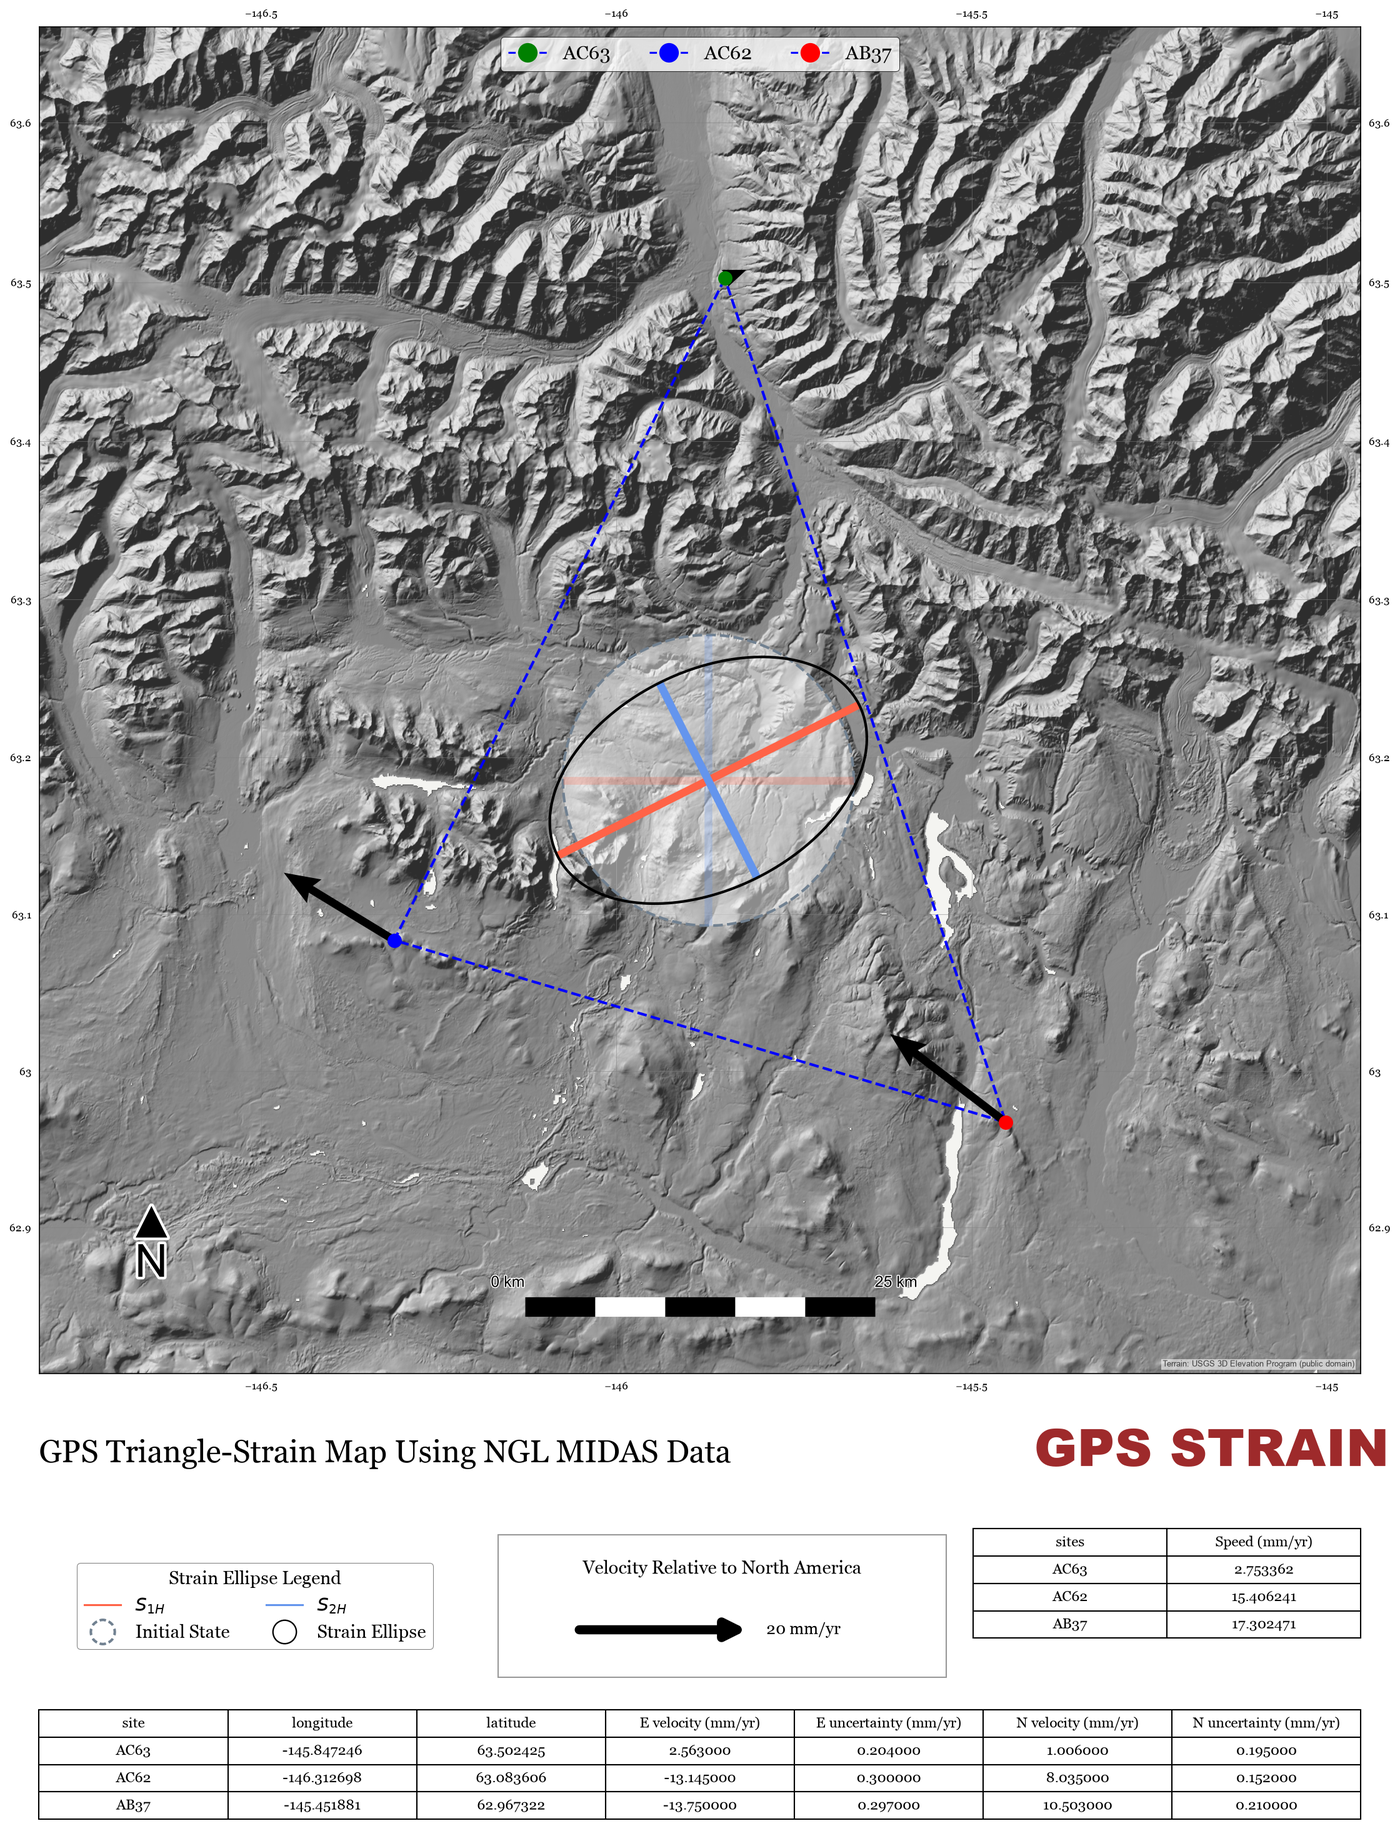
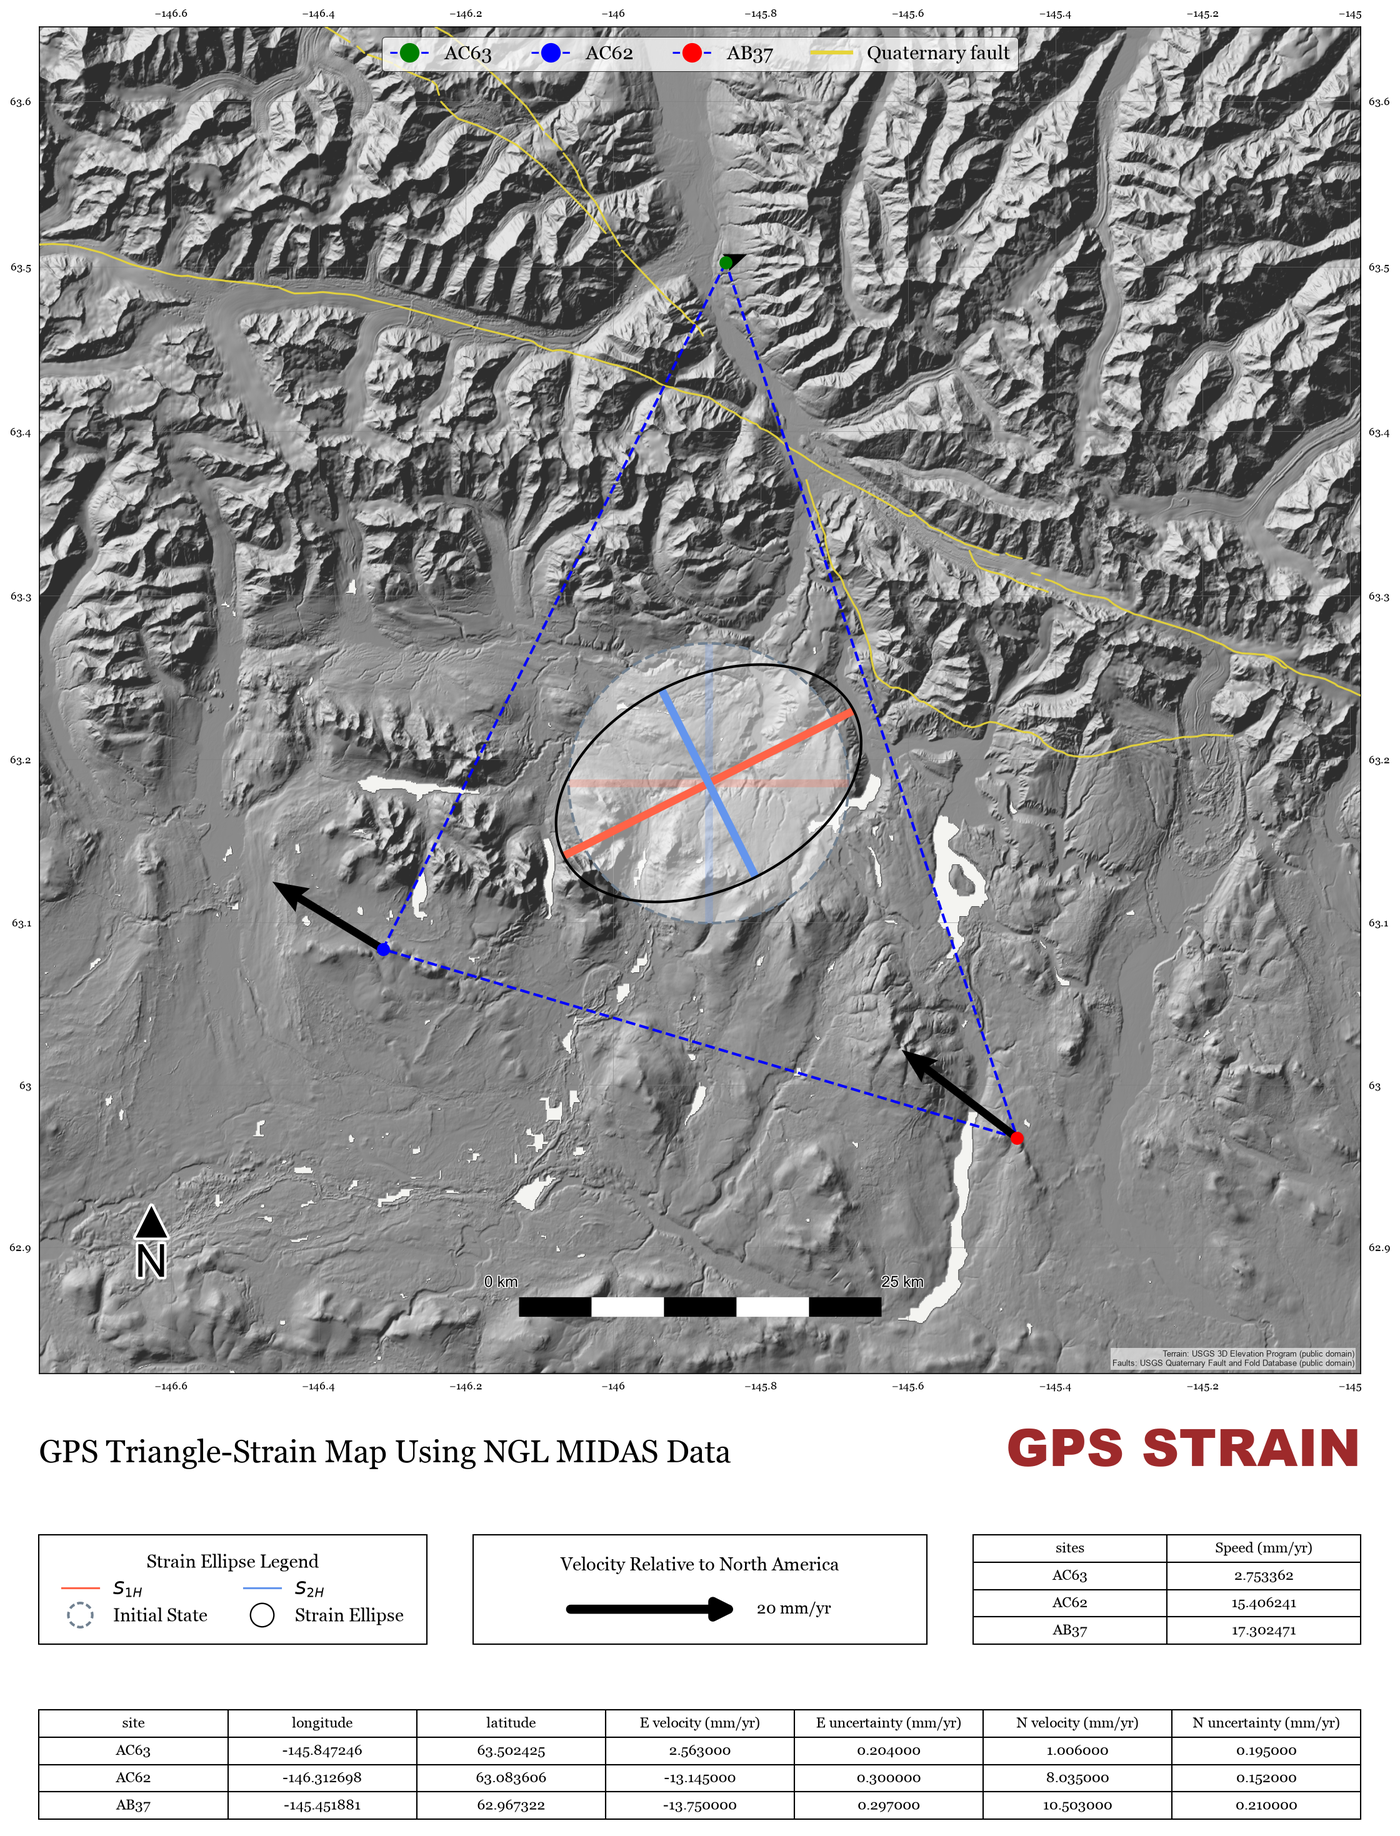
Legend: "Fault" instead of "Quaternary fault"; refresh Alaska examples
The legend entry is now simply "Fault"; the map's credit line already
names the database (USGS Quaternary Fault and Fold Database, or GEM).
README example images replaced with the latest live Alaska maps (faults,
aligned box row).

Claude-Session: https://claude.ai/code/session_01BU2pKHPdGdyvmdknMjFwGi

diff --git a/src/gps_strain/plotting.py b/src/gps_strain/plotting.py
@@ -93,6 +93,7 @@ def map_style(visibility=False) -> MapStyle:
 DEFAULT_BASEMAP = "hillshade"
 FAULT_COLOR = "#e6d43a"   # GEOSLAM / Cronin report figures: yellow fault traces
 FAULT_ZORDER = 10         # above the terrain and grid, below every map symbol
+FAULT_LABEL = "Fault"     # legend entry; the credit line names the database
 HILLSHADE_SOURCES = {"hillshade": "auto", "hillshade-3dep": "3dep", "hillshade-copernicus": "copernicus"}
 BASEMAPS = [*HILLSHADE_SOURCES, *bm.PROVIDERS, "synthetic", "none"]
 
@@ -305,8 +306,7 @@ def draw_faults(ax, ext, faults=True, source="auto", style=CLASSIC):
                     solid_capstyle="round", path_effects=edge)
             n += 1
     if n:
-        ax.gps_strain_fault_label = ("Quaternary fault" if credit in (None, qf.CREDIT_USGS)
-                                     else "Active fault")
+        ax.gps_strain_fault_label = FAULT_LABEL  # the credit line names the database
     ax.set_xlim(ext[0], ext[1])
     ax.set_ylim(ext[2], ext[3])
     return credit

diff --git a/tests/test_terrain.py b/tests/test_terrain.py
@@ -433,7 +433,7 @@ def test_faults_sit_between_terrain_and_symbols():
                         if a not in fault_lines)
         assert terrain_z < plotting.FAULT_ZORDER < symbols_z
         labels = [tx.get_text() for tx in ax.get_legend().get_texts()]
-        assert "Quaternary fault" in labels
+        assert plotting.FAULT_LABEL == "Fault" and "Fault" in labels
     # fetched faults are not drawn on the made-up offline terrain
     fig = plotting.strain_map(r, t, None, basemap="synthetic")
     assert not [ln for ln in fig.axes[0].lines if ln.get_color() == plotting.FAULT_COLOR]

diff --git a/README.md b/README.md
@@ -18,7 +18,7 @@ Give it three or more stations and it reports the following, then draws the two 
 
 <p align="center"><img src="examples/raton_network_ellipse.png" width="600"/></p>
 
-<sub>Top: the Alaska triangle AC63–AC62–AB37 from <code>gps-strain AC63 AC62 AB37 -o alaska --format png</code>, with current NGL MIDAS velocities and USGS 3DEP terrain. Bottom: the 2021 Raton, NM network, rendered offline, so its terrain is the made-up preview relief (<code>--basemap synthetic</code>), not the real landscape.</sub>
+<sub>Top: the Alaska triangle AC63–AC62–AB37 from <code>gps-strain AC63 AC62 AB37 -o alaska --format png</code>, with current NGL MIDAS velocities, USGS 3DEP terrain and USGS Quaternary faults (the Denali fault crosses near AC63). Bottom: the 2021 Raton, NM network, rendered offline, so its terrain is the made-up preview relief (<code>--basemap synthetic</code>), not the real landscape.</sub>
 
 ## Install
 
